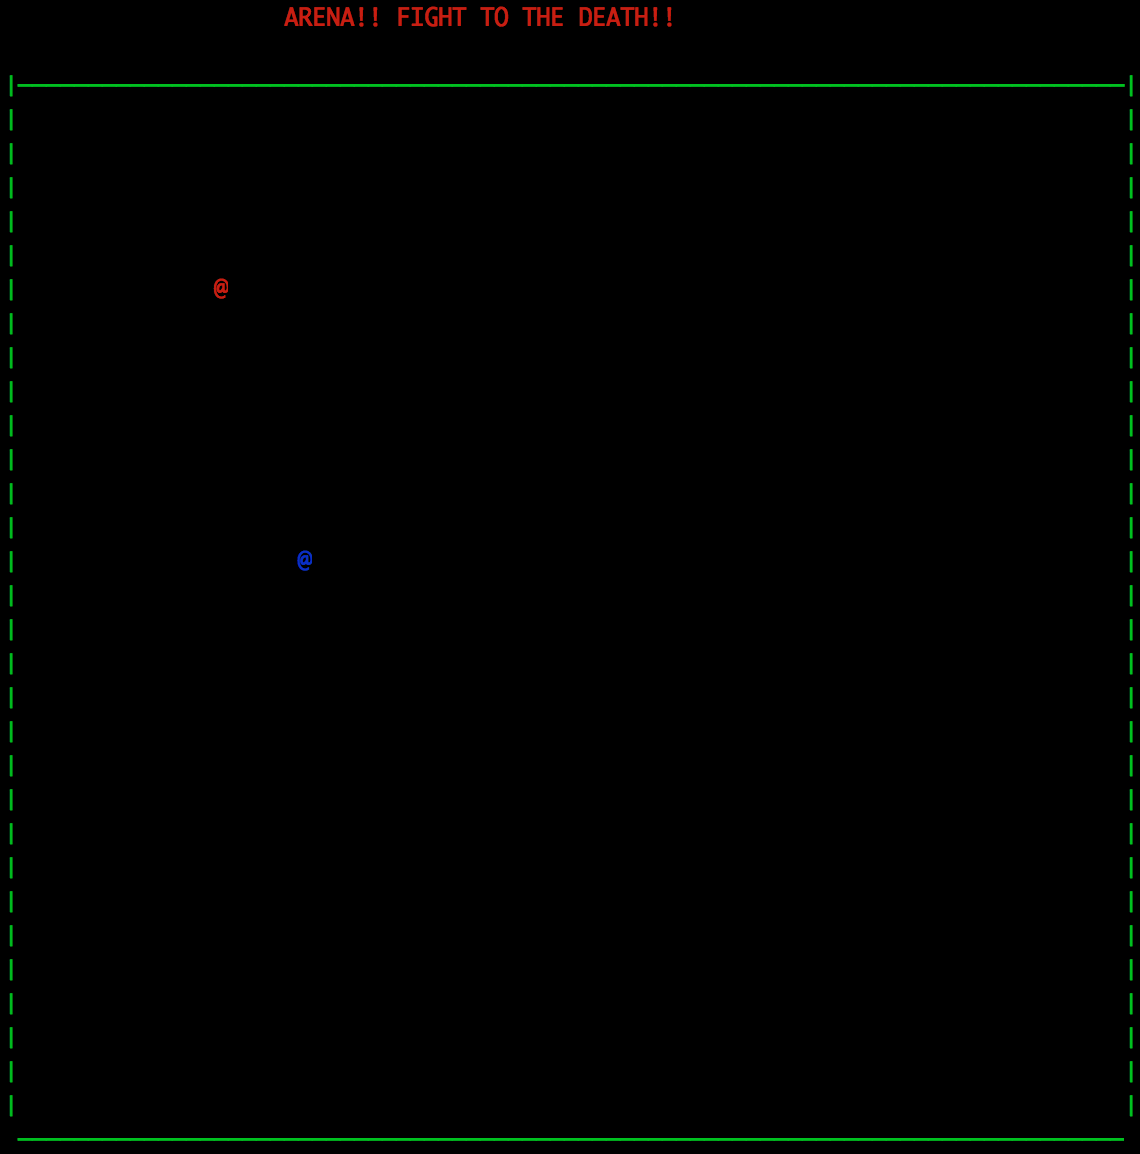
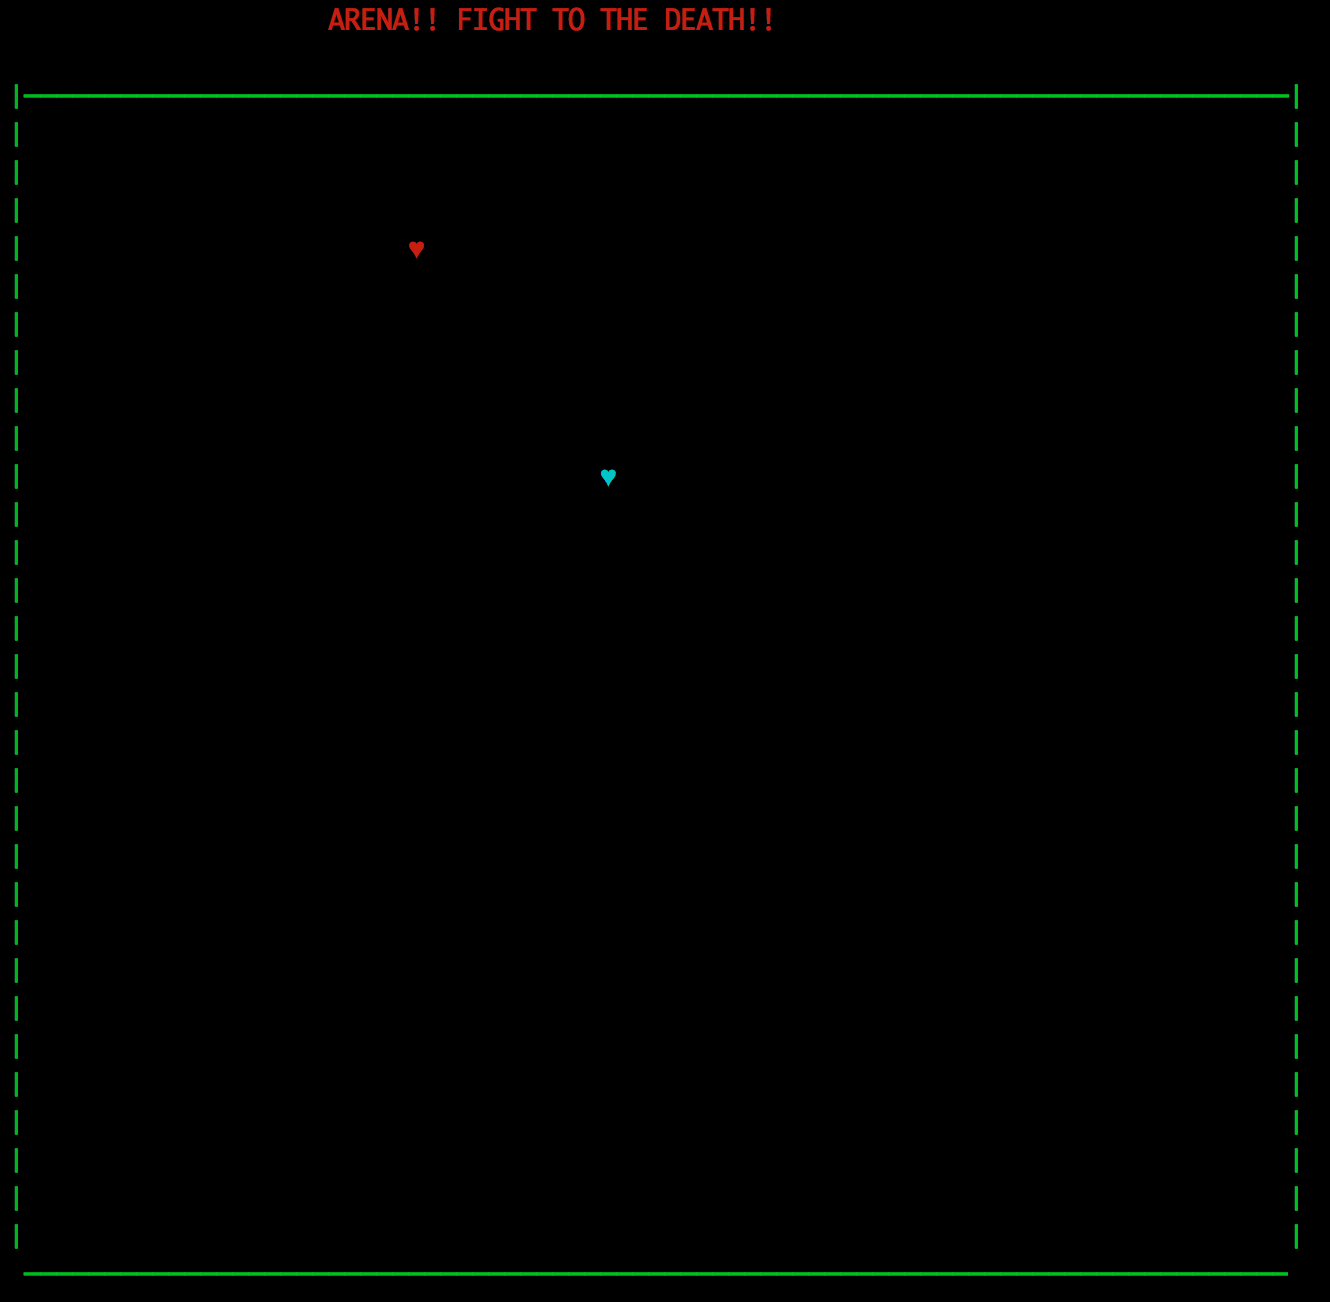
Updates

diff --git a/talk/index.html b/talk/index.html
@@ -74,26 +74,25 @@
         </section>
 
         <section>
-          <h2>What I hope One will get from this talk</h2>
+          <h2>What YOU will get from this talk</h2>
           <ol>
-            <li>Go over Arena</li>
-            <li>Touch on various Go semantics</li>
-            <li>Go over other areas of interest</li>
+            <li>A free tour of Arena</li>
+            <li>A tour of Go</li>
             <li>Try to answer some questions if I can</li>
           </ol>
         </section>
 
         <section>
 	  <h2>Arena!</h2>
-          <p>Server client model</p>
-          <p>HP of just 5</p>
-          <p>Simple, demonstrates most of the
-            constructs of Go</p>
+          <img data-src="../arena.png" style="height:570px">
         </section>
 
         <section>
 	  <h2>Arena!</h2>
-          <img data-src="../arena.png">
+          <ul>
+            <li>Server/Client Model</li>
+            <li>Simple, demonstrates most of the
+            constructs of Go</li>
         </section>
 
         <section>
@@ -107,20 +106,20 @@
         </section>
 
         <section>
-          <h2>What it'll demonstrate</h2>
+          <h2>What Arena Will Demonstrate</h2>
           <ul>
-            <li>Concurrency patterns</li>
-            <li>Structs and interfaces</li>
+            <li>Concurrency Patterns</li>
+            <li>Structs and Interfaces</li>
             <li>Types</li>
-            <li>Control structures</li>
-            <li>Unit testing</li>
-            <li>and more</li>
+            <li>Control Structures</li>
+            <li>Unit Testing</li>
+            <li>And much much more!</li>
           </ul>
         </section>
 
         <section>
           <h2>Directory Structure of Game</h2>
-          <img data-src="../structure.png">
+          <img data-src="../structure.png" style="height:470px">
         </section>
 
         <section>
@@ -180,7 +179,22 @@ type fighter struct {
 	    </code></pre>
           </section>
           <section>
-            <h2>Go Routine Side Track</h2>
+	    <h2>All The Other Types</h2>
+            <ul>
+              <li>Boolean</li>
+              <li>More Numeric Types</li>
+              <li>Array</li>
+              <li>Slices</li>
+              <li>Pointers</li>
+              <li>Functions</li>
+              <li>Interfaces</li>
+              <li>Maps</li>
+            </ul>
+          </section>
+
+          </section>
+          <section>
+            <h2>Second Sidetrack: Go Routines</h2>
 	    <pre class="fragment current-visible"><code data-trim contenteditable>
 package main
 
@@ -237,16 +251,7 @@ func routine (done chan string) {
           </section>
 
           <section>
-	    <h2>Types</h2>
-            <ul>
-              <li>int</li>
-              <li>string</li>
-              <li>rune</li>
-              <li>struct</li>
-            </ul>
-          </section>
-          <section>
-            <h2>Objects and Methods</h2>
+            <h2>Initialize a Fighter</h2>
 	    <pre class="fragment current-visible"><code data-trim contenteditable>
 func NewFighter(x, y, id int, kind string, reply chan Line) Fighter {
 	mySafeMap.Insert(fmt.Sprintf("%d_x", id), x)
@@ -294,6 +299,22 @@ type Fighter interface {
 	    </code></pre>
           </section>
           <section>
+            <h2>Third Sidetrack: Unit Testing</h2>
+	    <pre class="fragment current-visible"><code data-trim contenteditable>
+package math
+
+import "testing"
+
+func TestAddition(t *testing.T) {
+   x := 5
+   v = x + 3
+   if v != 8 {
+       t.Error("Expected 1.5, got ", v)
+   }
+}
+            </code></pre>
+          </section>
+          <section>
             <h2>Unit Testing</h2>
 	    <pre class="fragment current-visible"><code data-trim contenteditable>
 package fighter
@@ -322,7 +343,7 @@ ok  github.com/logie17/arena/client/fighter0.006s
 
         </section>
         <section>
-	  <h2>Type Keyword Sidetrack</h2>
+	  <h2>Fourth Sidetrack: Type Keyword</h2>
 	  <pre class="fragment current-visible"><code data-trim contenteditable>
 type Count int
 func main() {
@@ -339,7 +360,7 @@ func(count *Count) Increment() Count {
 
         <section>
           <section>
-            <h2>Server</h2>
+            <h2>Server Code</h2>
             <ul>
               <li>Need to accept multiple
                 connection</li>
@@ -360,7 +381,7 @@ func(count *Count) Increment() Count {
             </ul>
           </section>
           <section>
-            <h2>Let's dive in</h2>
+            <h2>Let's dive in - main.go</h2>
 	    <pre class="fragment current-visible"><code data-trim contenteditable>
 func main() {
 	s := NewServer()
@@ -432,7 +453,7 @@ func (s *Server) Broadcast(line string) {
 	                          </code></pre>
           </section>
           <section>
-            <h2>Message Handling</h2>
+            <h2>Message Handling: Iterate Messages</h2>
 	    <pre class="fragment current-visible"><code data-trim contenteditable>
 go func() {
 	for line := range client.Message {
@@ -448,7 +469,7 @@ go func() {
 
           </section>
           <section>
-            <h2>Message Handling</h2>
+            <h2>Message Handling: Send it Back</h2>
 	    <pre class="fragment current-visible"><code data-trim contenteditable>
 func (client *Client) sendPosMsg(conn net.Conn, action string, id, x, y int) {
 	if id == client.Id {
@@ -507,7 +528,7 @@ func establishConnection() net.Conn {
           </section>
 
           <section>
-	    <h2>Listen to Server</h2>
+	    <h2>Listen to Server Replies</h2>
 	    <pre class="fragment current-visible"><code data-trim contenteditable>
 func readFromServer(fighterId int, fighters []fighter.Fighter,
       bufc *bufio.Reader, reply chan fighter.Line) {
@@ -570,7 +591,7 @@ func handleKeyEvents(f fighter.Fighter) {
 
         <section>
           <section>
-            <h2>Let's talk more about concurrency</h2>
+            <h2>Concurrency with Sync</h2>
             <p>Go supplies a great sync library</p>
           </section>
           <section>

diff --git a/client/main.go b/client/main.go
@@ -92,7 +92,7 @@ func handleFighterActions(cn net.Conn, reply chan fighter.Line) {
 						termbox.Flush()
 
 					} else if action == "redraw_me" {
-						termbox.SetCell(x, y, '♥', termbox.ColorBlue, termbox.ColorBlack)
+						termbox.SetCell(x, y, '♥', termbox.ColorCyan, termbox.ColorBlack)
 						termbox.Flush()
 					} else if action == "kill" {
 						drawBoard("YOU DIED! - GAME OVER")
